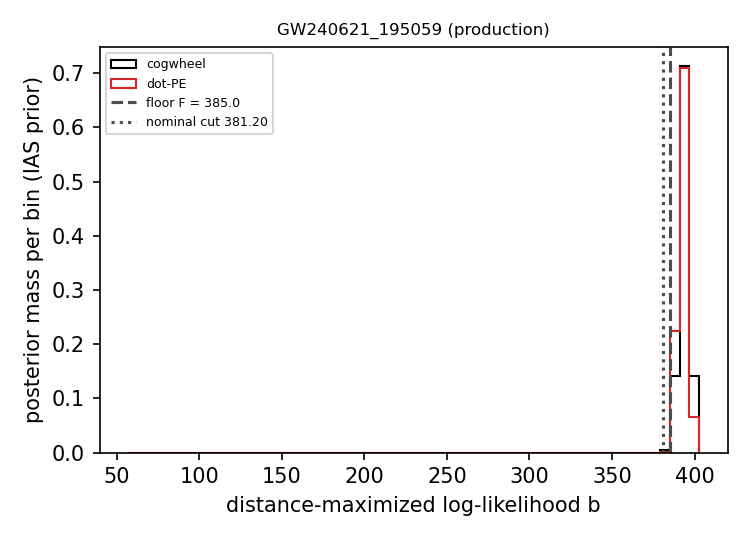
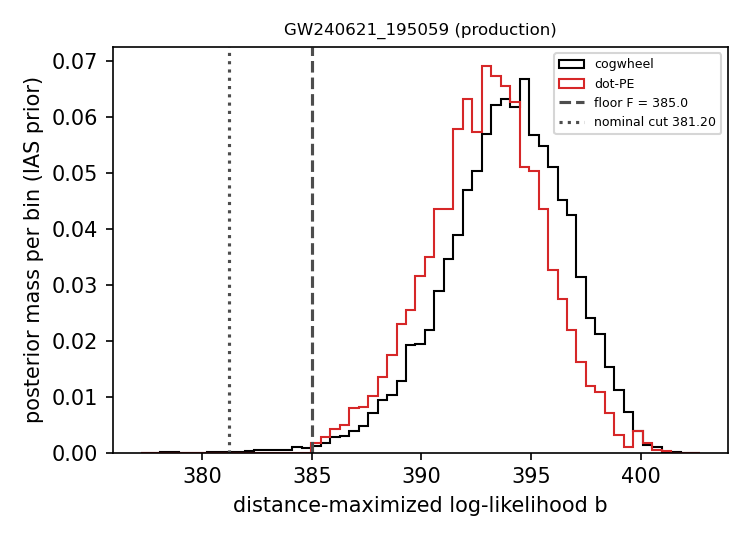
research: E0 problem report draft and figures
Claude-Session: https://claude.ai/code/session_015Ha8CowgXaDTZuUXirm2SN

diff --git a/research/row-limit/2026-11-22_problem.md b/research/row-limit/2026-11-22_problem.md
@@ -1,0 +1,149 @@
+# Posterior mass removed by dot-PE's row limit
+
+This report tests whether dot-PE's row limit removes posterior mass that an independent sampler,
+cogwheel, finds. dot-PE keeps at most `size_limit` (intrinsic, extrinsic, phase) rows, ranked by
+their distance-maximized log-likelihood. When that limit binds, the reported posterior is cut off
+below the lowest kept value, and at low signal-to-noise ratio that cutoff can lie inside the
+bulk of the posterior.
+
+Code and data: the test reads production outputs only. The dot-PE runs were made with dot-PE
+2403731 (GW240525_201644 `run_2`) and the commits listed in o4b-pe-paper
+`docs/pe/dot_pe_versions.csv` and o4a-pe-paper `docs/pe/dot_pe_versions.csv`. The test script
+ran on branch `research` (dcfaad4). It supersedes no earlier report; the measurement it repeats
+on four events was first made in
+https://github.com/JonathanMushkin/o4b-pe-paper/blob/master/dev/row_limit_check/below_floor.md
+
+## Question and answer
+
+The question: for each test event, what is ΔW, the posterior mass that cogwheel places at a
+distance-maximized log-likelihood below dot-PE's production floor, minus the mass dot-PE places
+there?
+
+The answer: under the IAS prior ΔW is 0.004 for the high-SNR control and 0.31, 0.96 and 0.97
+for the three low-SNR test events, each with a noise below 0.005.
+
+## Prediction
+
+The design predicted: "dot-PE's production posterior has no mass below its floor by
+construction, while cogwheel's has W_IAS = 0.31 for GW240525_201644, 0.97 for GW230902_150325
+and 0.97 for GW231113_150041, so ΔW ≈ W. The prediction is disproved if ΔW is within its noise
+of 0 for any of the three low-SNR events." It held: ΔW is 0.31, 0.96 and 0.97 for the three
+events, more than 60 times its noise in each.
+
+## Setup
+
+dot-PE scores every (intrinsic, extrinsic, phase) combination of a run, a *row*, and keeps the
+rows whose distance-maximized log-likelihood lies within 20 of the run's best fit, the *nominal
+cut*. On top of that it keeps at most `size_limit` = 1e7 rows, those with the highest
+distance-maximized log-likelihood. Every production run hit that limit. The *floor* F of a run is
+the lowest distance-maximized log-likelihood among its kept rows.
+
+### Distance-maximized log-likelihood b
+
+For a template with matched-filter inner products (d|h) and (h|h) at a reference distance,
+
+    b = (d|h)² / (2 (h|h))   if (d|h) > 0,   else 0,
+
+the log-likelihood maximized over luminosity distance. dot-PE stores it per row as
+`bestfit_lnlike` (`dot_pe/thin_coherent.py:258`). For a cogwheel posterior sample it is computed
+from the stored `lnl` = (d|h) − (h|h)/2 and `h_h` = (h|h) at the sample's distance, with
+(d|h) = lnl + h_h/2; the value does not depend on the distance at which the inner products are
+evaluated.
+
+### Mass below the floor M_s(F) and ΔW
+
+For sampler s (dot-PE or cogwheel) with posterior samples of weights w_j,
+
+    M_s(F) = Σ_{j: b_j < F} w_j / Σ_j w_j,
+
+the posterior mass with b below F, and
+
+    ΔW = M_cog(F) − M_dot(F).
+
+The noise of ΔW is the binomial standard error of each M, √(M(1 − M)/n_eff), with n_eff the Kish
+effective sample size (Σw)²/Σw², added in quadrature.
+
+### Priors and samples
+
+Under the IAS prior (dot-PE's production prior) dot-PE's samples are `samples.feather` (1e4
+equally weighted draws) and cogwheel's its production `samples.feather`. Under the LVK prior
+(the LVK spin and distance prior, as implemented in o4b-pe-paper
+`src/o4a_pe_paper/pe_lib/lvk_reweight.py`) dot-PE's samples are `samples_lvc.feather`, and
+cogwheel's are a cogwheel run sampled under the LVK prior where one exists (GW240525_201644) and
+otherwise the production samples reweighted to the LVK prior.
+
+### Events
+
+| event | role | dot-PE run | floor F | dot-PE best fit | cogwheel best fit | offset |
+|---|---|---|---|---|---|---|
+| GW240621_195059 | control | o4b `run_1` | 385.0 | 401.2 | 401.7 | −0.5 |
+| GW240525_201644 | test | o4b `run_2` | 24.35 | 36.38 | 35.67 | 0.7 |
+| GW230902_150325 | test | o4a `run_2` | 33.21 | 39.34 | 37.49 | 1.8 |
+| GW231113_150041 | test (reported, not counted for E5) | o4a `run_0` | 32.18 | 41.90 | 36.38 | 5.5 |
+
+Best fits are the largest b over a run's kept rows (dot-PE) or over the samples (cogwheel);
+the offset is dot-PE's minus cogwheel's, in log-likelihood. The three test events are the
+handoff's acceptance events and were chosen after its results; the control is the event with
+best fit above 200, offset below 2 in magnitude, and the smallest W_IAS above 0 in o4b-pe-paper
+`dev/row_limit_check/below_floor.csv`. F is fixed in `test_mass_below_floor.py` per event, so the
+solution experiment evaluates the same F.
+
+## Results
+
+Where do the two posteriors lie in b, relative to the floor and the nominal cut, for the
+control?
+
+![b histograms, control](review/fig1_b_hist_production.png)
+
+For the high-SNR control both posteriors lie above F = 385.0, and the floor removes nothing that
+cogwheel finds.
+
+Where do they lie for the three test events?
+
+![b histograms, test events](review/fig2_b_hist_production.png)
+
+For GW240525_201644 about a third of cogwheel's posterior lies between the nominal cut and F;
+for GW230902_150325 and GW231113_150041 nearly all of it does, and dot-PE's posterior is
+confined to b ≥ F.
+
+How large is ΔW across the four events, under each prior?
+
+![ΔW per event](review/fig3_dW_production.png)
+
+ΔW per event (noise in parentheses):
+
+| event | ΔW, IAS prior | ΔW, LVK prior |
+|---|---|---|
+| GW240621_195059 | 0.004 (0.001) | 0.004 (0.003) |
+| GW240525_201644 | 0.310 (0.005) | 0.602 (0.004) |
+| GW230902_150325 | 0.964 (0.002) | 0.969 (0.007) |
+| GW231113_150041 | 0.971 (0.002) | 0.974 (0.005) |
+
+M_dot(F) is 0 up to the rounding of F (at most 0.002) by construction, since F is the lowest
+kept b; ΔW therefore equals M_cog(F) here.
+
+## Observations after the experiment
+
+Not asked by the question: the nominal cut drawn in the figures is dot-PE's best fit over kept
+rows minus 20, which for GW240525_201644 is 16.38, not the 15.29 of the handoff; the handoff took
+the best fit from `summary_results.json`, whose `bestfit_lnlike_max` is the maximum over the
+posterior draws (`dot_pe/inference.py:1568`), not over the rows (`research/progress.md`,
+2026-11-22 10:27).
+
+## Limitations
+
+- ΔW measures where in b the posterior mass lies, not whether the parameters within that region
+  are right; a fix could reach ΔW ≈ 0 with wrong weights. E3 tests the weights.
+- Cogwheel's and dot-PE's b come from two likelihood implementations; the offsets in the events
+  table bound their disagreement at the best fit. For GW231113_150041 the offset of 5.5 means
+  part of ΔW may come from a different maximum, not from the row limit.
+- The LVK-prior values for three events rest on reweighted cogwheel samples with n_eff of 474
+  to 874.
+
+## Reproduction
+
+    python research/lsf_submit.py --name e0_mass_below_floor --env o4a-pe --mem-mb 8000 \
+        -- research/row-limit/test_mass_below_floor.py
+
+Output: `artifacts/research/row-limit/mass_below_floor_production.csv` and the figures in
+`research/row-limit/review/`. LSF jobs 384729 and 390492 (figure range).

diff --git a/research/progress.md b/research/progress.md
@@ -22,3 +22,4 @@ One row per decision, design approval, gate outcome or LSF job. Times are local 
 | 2026-11-22 10:36 | E3 code check | `thin.staged` on a synthetic table (12 blocks × 5000 rows, 3000 seeds): estimates of Σw and Σw·x unbiased within 0.4 standard errors for one-stage and three-stage priority sampling (scratch script, not part of the report). |
 | 2026-11-22 10:37 | log fix | Timestamps of five earlier rows corrected to the clock (they had been written ahead of it). |
 | 2026-11-22 10:37 | E4 design | `phase-marginalization/design.md` reviewed: no blocking findings, 6 minor, all applied; approved. |
+| 2026-11-22 10:38 | LSF 390492 done | E0 rerun: 364 s, exit 0; numbers identical to 384729; figures replaced. E0 problem report drafted, sent to the two report reviewers. |
